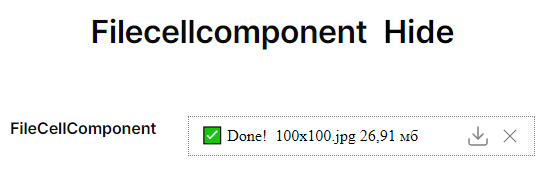
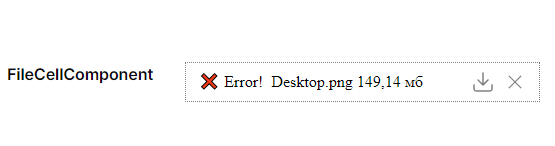
add: error.check file-cell.comp

diff --git a/src/app/shared/ui-kit/file-cell/file-cell.component.ts b/src/app/shared/ui-kit/file-cell/file-cell.component.ts
@@ -1,12 +1,12 @@
-import { HttpClient, HttpEventType } from '@angular/common/http'
-import { Component, Input } from '@angular/core'
+import {HttpClient, HttpEventType} from '@angular/common/http'
+import {Component, Input} from '@angular/core'
 import {
 	FileCellContent,
 	FileCellSize,
 	FileCellStatus
 } from './interfaces/file-cell.interface'
-import { Subscription, throwError } from 'rxjs'
-import { FileService } from '../../services/common/file.service'
+import {Subscription, throwError} from 'rxjs'
+import {FileService} from '../../services/common/file.service'
 
 @Component({
 	selector: 'mib-file-cell',
@@ -66,21 +66,27 @@ export class FileCellComponent {
 			// const upload$ = this.filesService
 			this.uploadSub = this.filesService
 				.uploadFileWithProgress(this.file)
-				.subscribe(event => {
-					switch (event.type) {
-						case HttpEventType.UploadProgress:
-							console.log('HttpEventType :>> ', HttpEventType)
-							this.status = 'uploading'
-							if (event.total) {
-								this.progress = Math.round((100 * event.loaded) / event.total)
-								console.log('progress :>> ', this.progress)
-							}
-							break
-						case HttpEventType.Response:
-							setTimeout(() => {
-								this.status = 'success'
-							})
-							break
+				.subscribe({
+					next: next => {
+						switch (next.type) {
+							case HttpEventType.UploadProgress:
+								console.log('HttpEventType :>> ', HttpEventType)
+								this.status = 'uploading'
+								if (next.total) {
+									this.progress = Math.round((100 * next.loaded) / next.total)
+									console.log('progress :>> ', this.progress)
+								}
+								break
+							case HttpEventType.Response:
+								setTimeout(() => {
+									this.status = 'success'
+								})
+								break
+						}
+					},
+					error: err => {
+						this.status = 'fail'
+						throwError(() => err)
 					}
 				})
 		}

diff --git a/src/app/shared/services/common/file.service.ts b/src/app/shared/services/common/file.service.ts
@@ -1,16 +1,16 @@
-import { environment } from 'src/environments/environment'
+import {environment} from 'src/environments/environment'
 
-import { Observable, catchError, of, throwError } from 'rxjs'
+import {Observable, catchError, of, throwError} from 'rxjs'
 import {
 	HttpClient,
 	HttpErrorResponse,
 	HttpEvent,
 	HttpHeaders
 } from '@angular/common/http'
-import { Injectable } from '@angular/core'
-import { FileMode } from '../../types/file/file-model.interface'
-import { Translator } from '../../classes/common/translator.class'
-import { IFile } from '../../interfaces/files.interface'
+import {Injectable} from '@angular/core'
+import {FileMode} from '../../types/file/file-model.interface'
+import {Translator} from '../../classes/common/translator.class'
+import {IFile} from '../../interfaces/files.interface'
 
 @Injectable()
 export class FileService {
